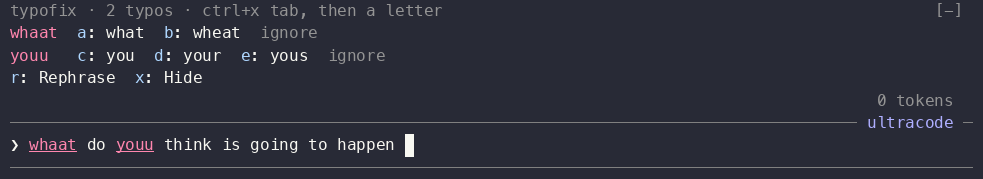
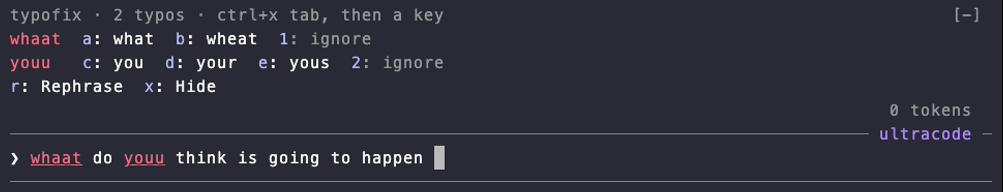
typofix: re-record the band image and GIF with the ignore digits

diff --git a/plugins/typofix/README.md b/plugins/typofix/README.md
@@ -45,7 +45,7 @@ aside and the fixes appear directly above the prompt. The word they fix is bold:
 **2. With the cursor anywhere: the band shortcut, then a letter.** The band
 lists up to 8 mistakes, and each of the first 22 fixes gets its own letter:
 
-![The band lists whaat with a: what and b: wheat, and youu with c: you, d: your and e: yous](media/band.png)
+![The band lists whaat with a: what, b: wheat and 1: ignore, and youu with c: you, d: your, e: yous and 2: ignore](media/band.png)
 
 Press **ctrl+x tab** (or your own shortcut, below), then the letter. The word is
 fixed and you are back in the prompt, ready to type. The letters never use `i`,
@@ -254,4 +254,4 @@ on `globalThis`.
 counts and positions arrive as strings (`"25"`), so the types say `string` and
 the script converts them with `Number()`.
 
-Tested with Claude Code 2.1.309 on macOS.
+Tested with Claude Code 2.1.310 on macOS.
